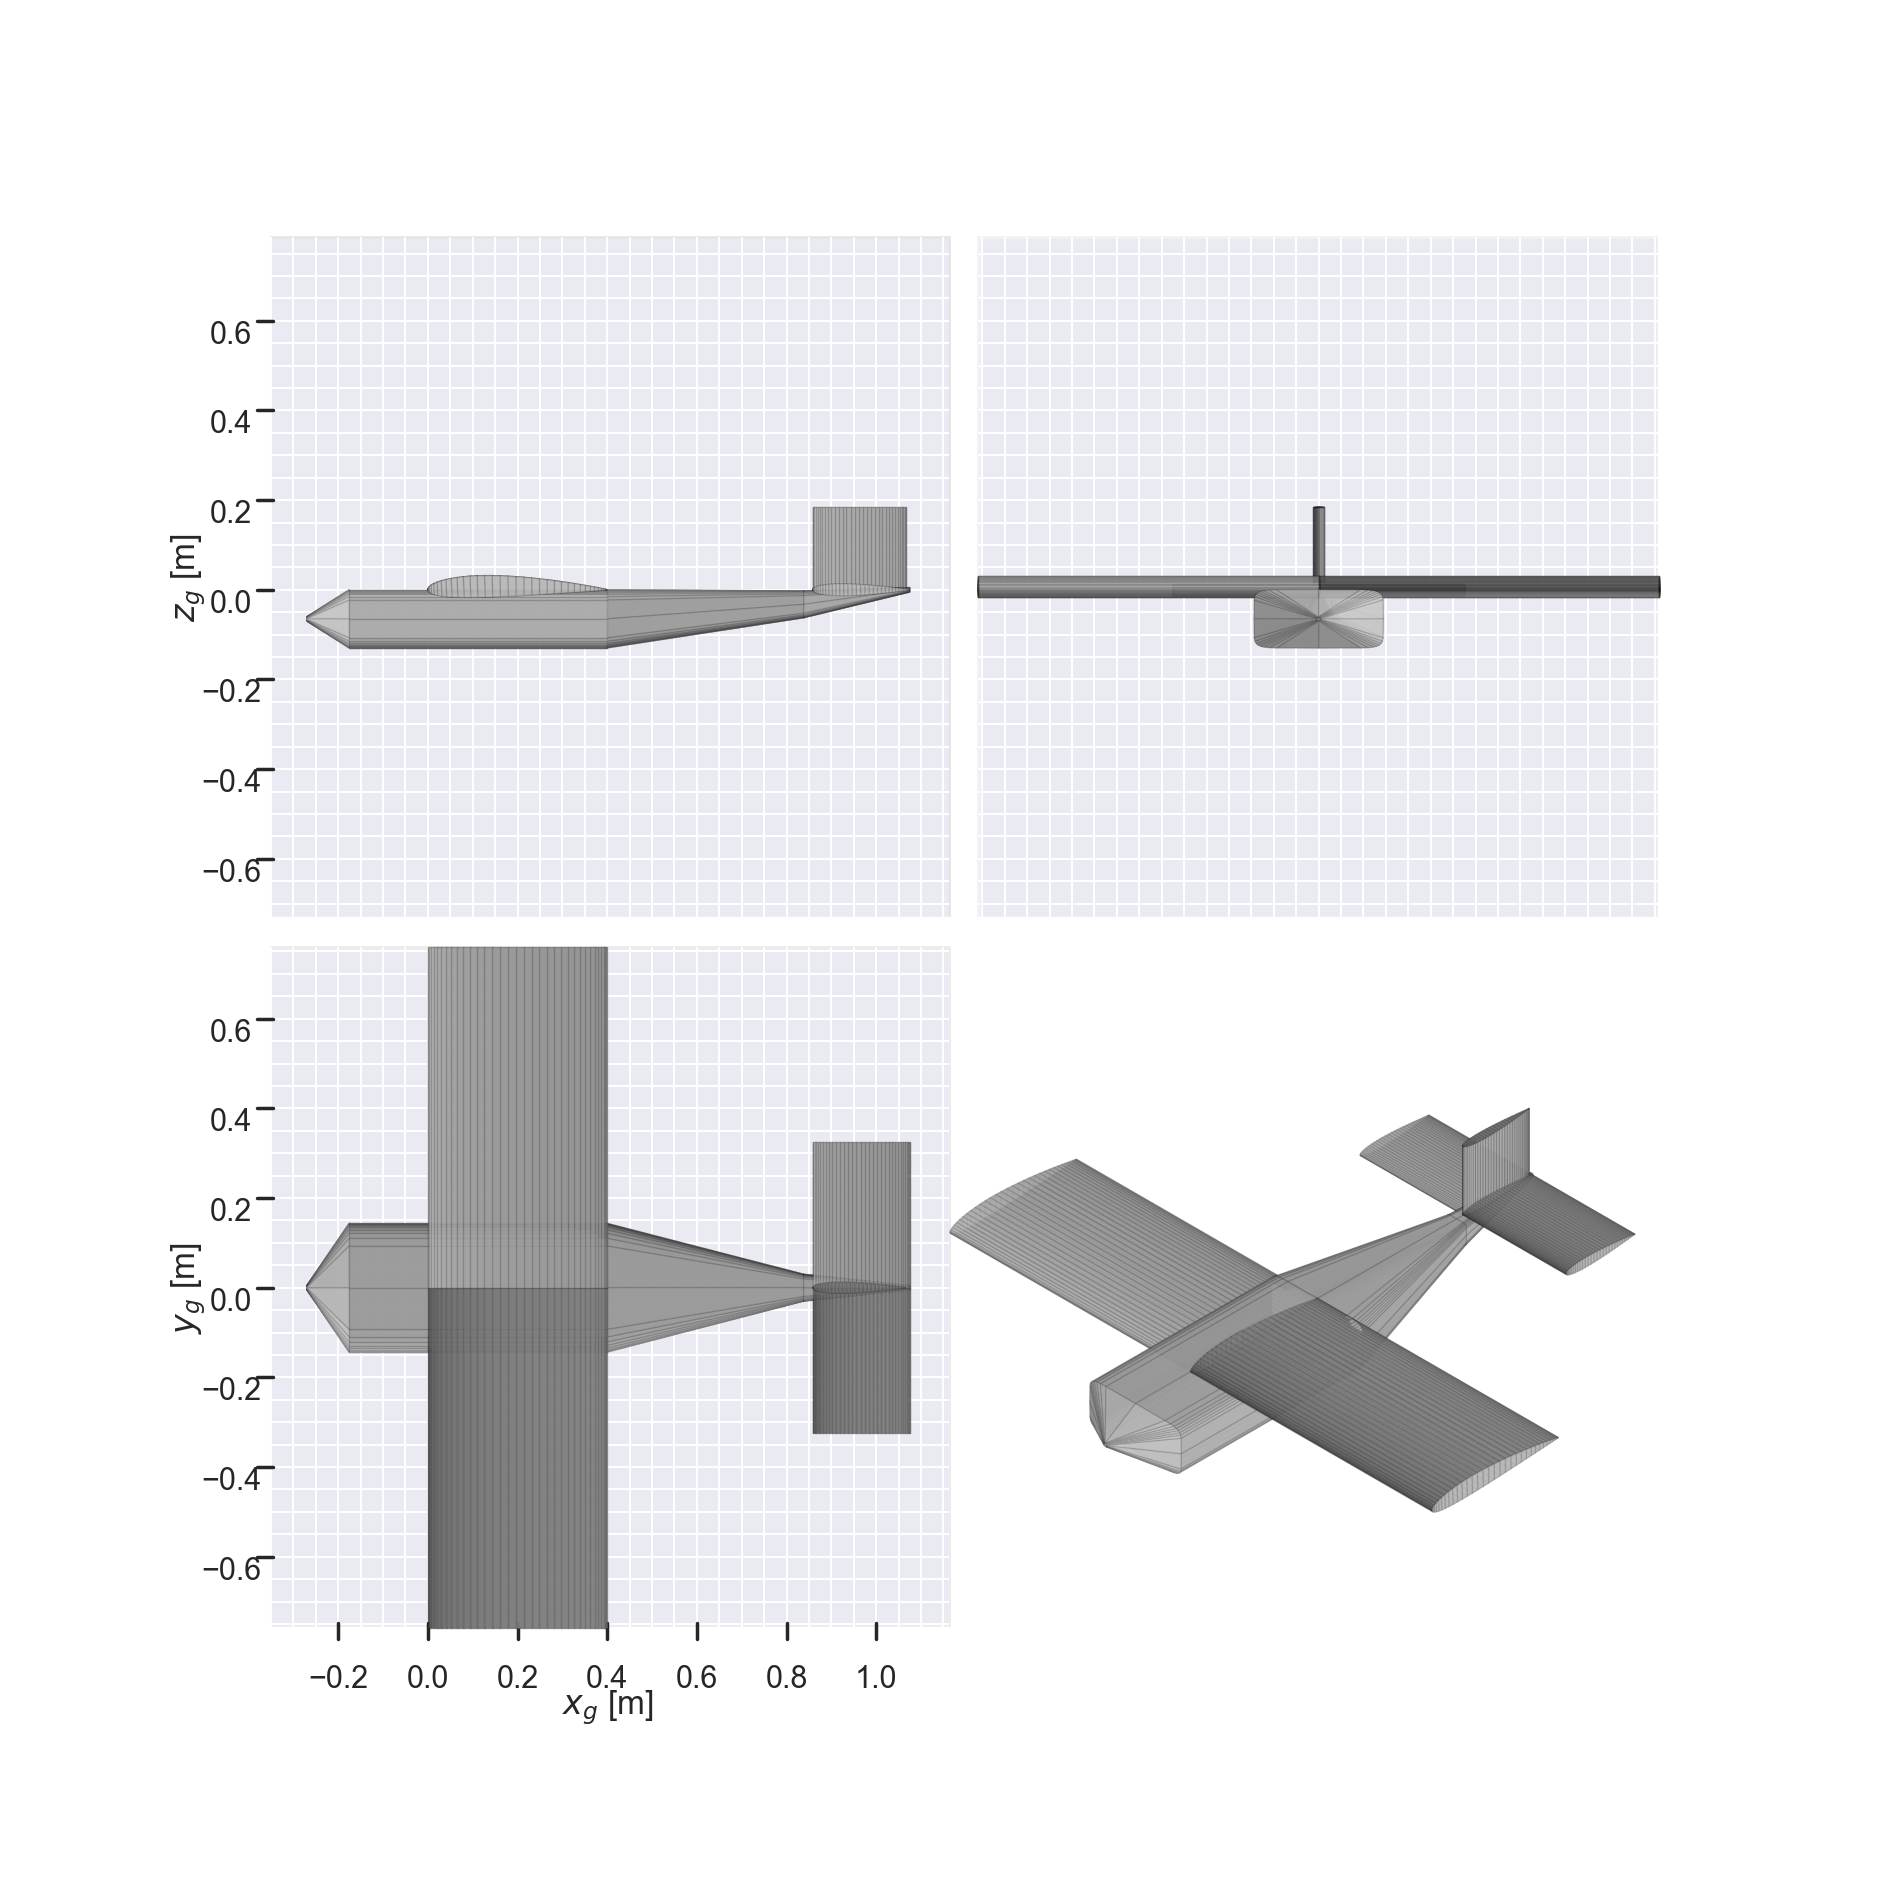
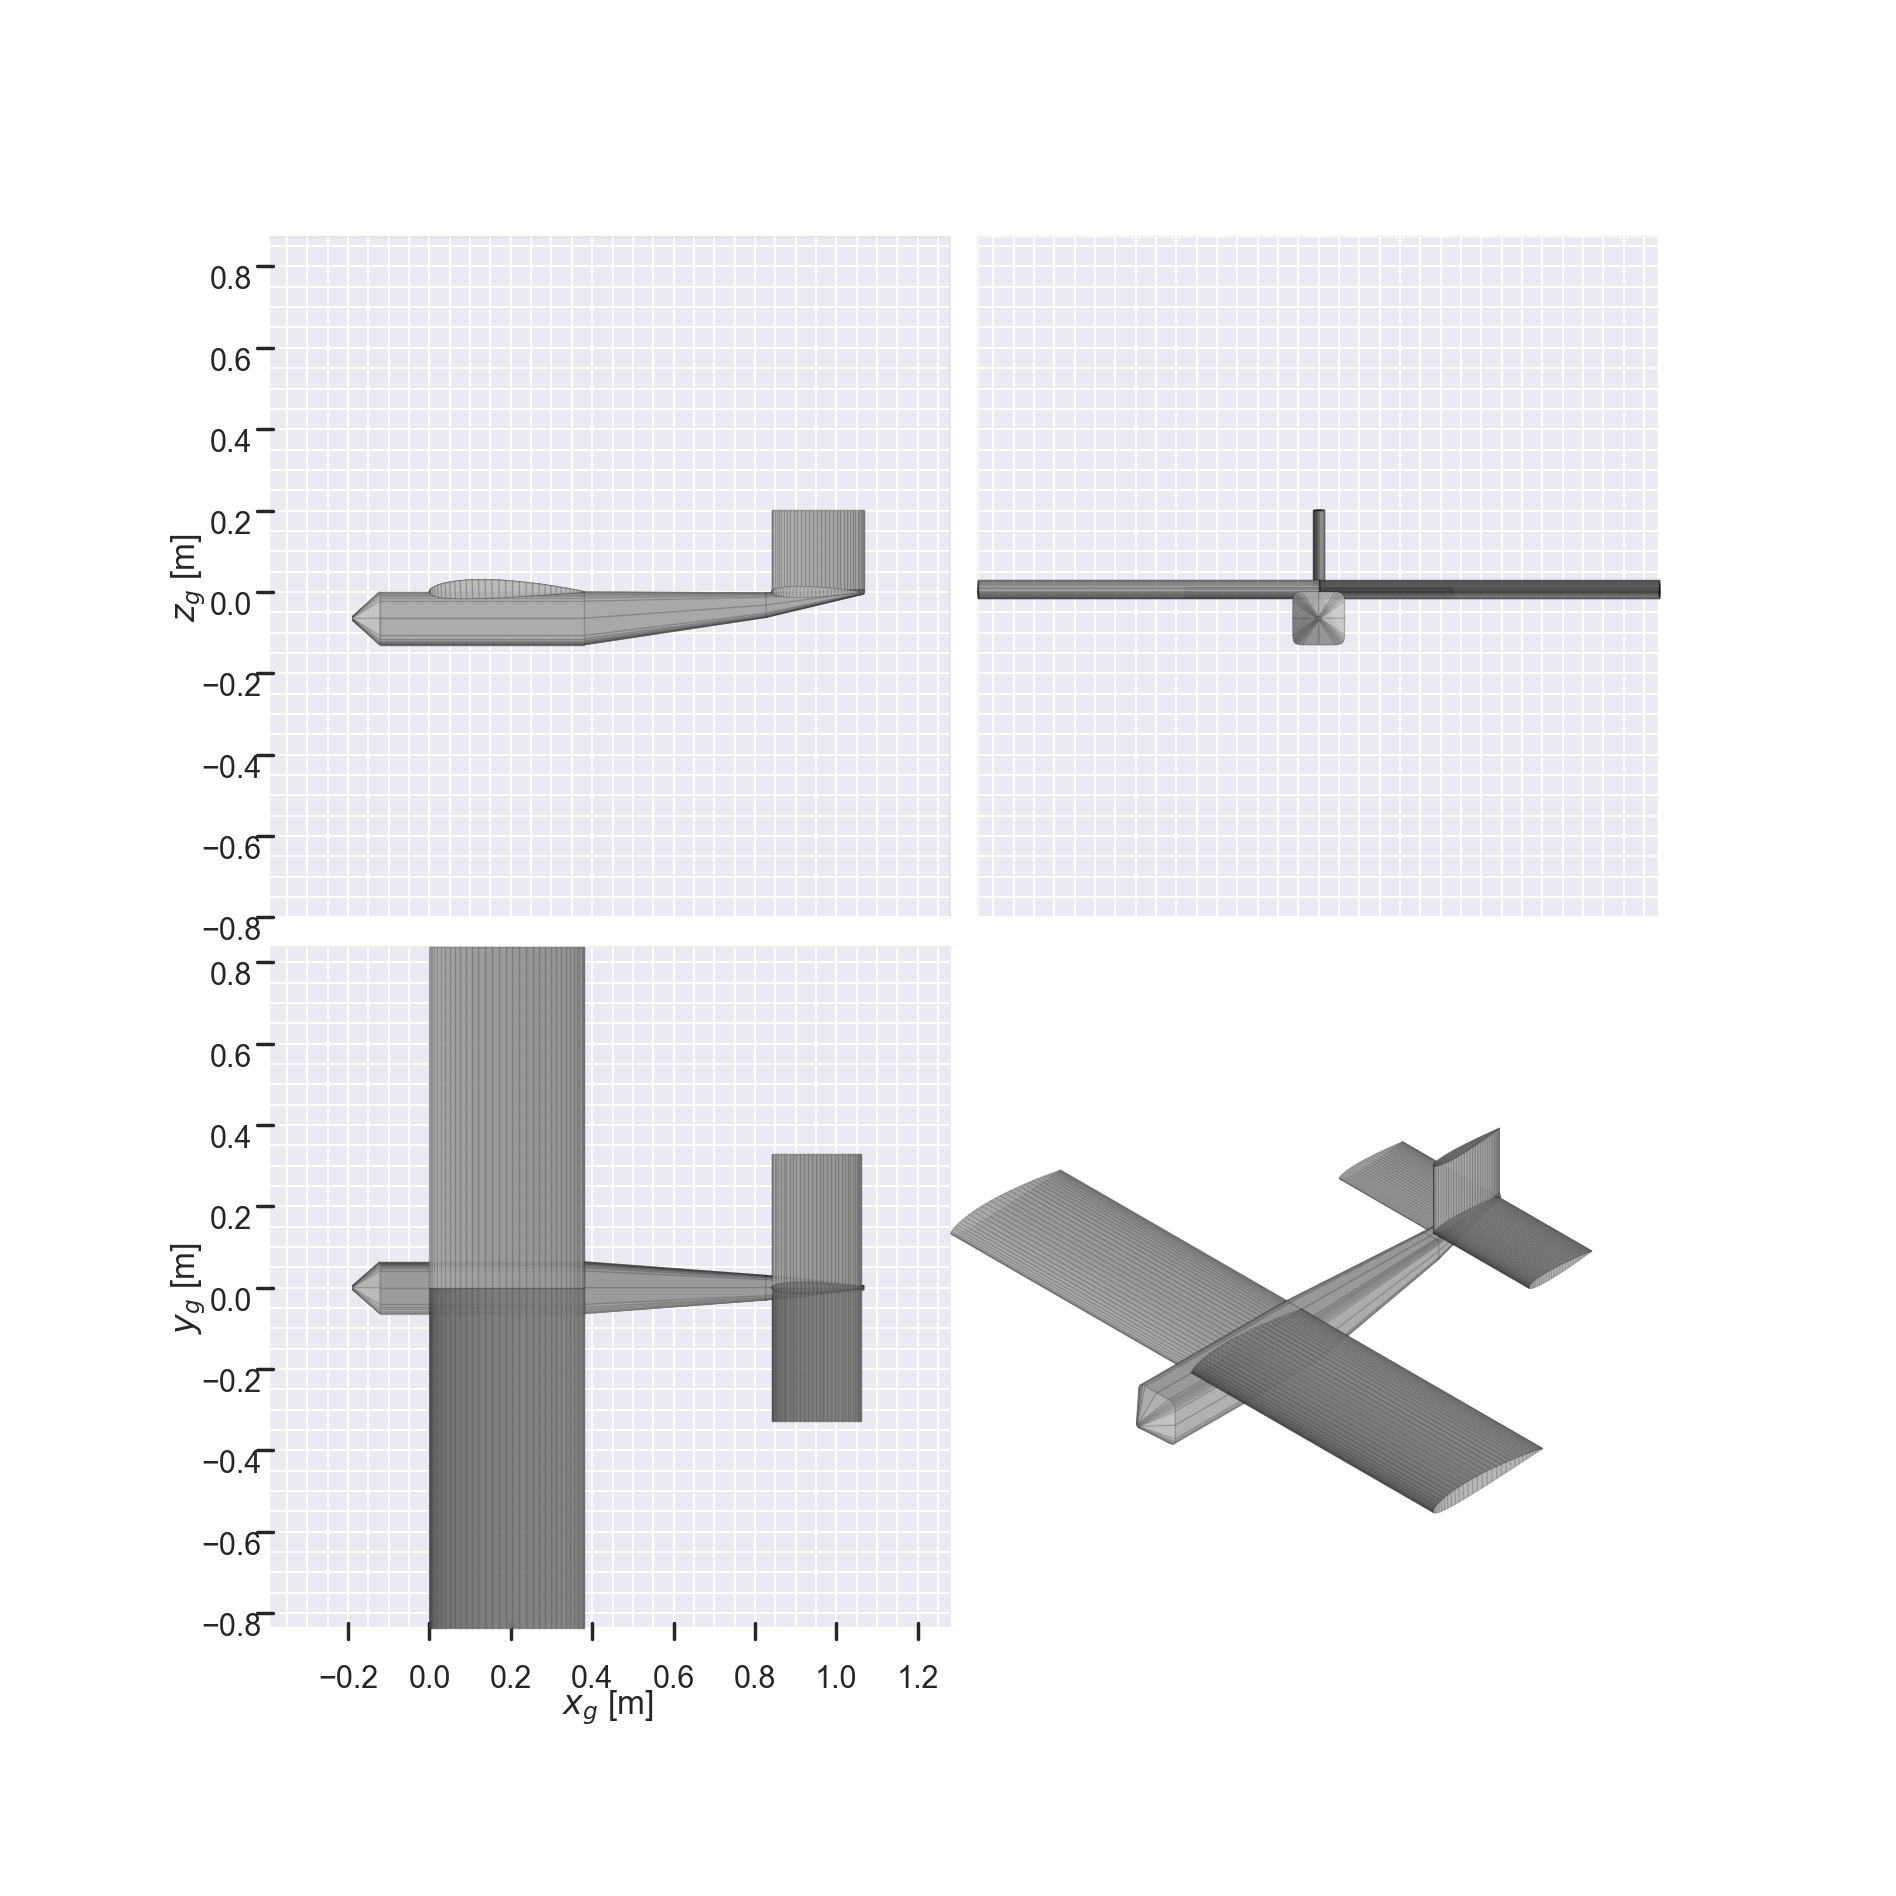
integrating cell count with opt_test

diff --git a/src/opt_test.py b/src/opt_test.py
@@ -20,6 +20,13 @@ from tqdm.auto import tqdm
 from src.main import main
 from src.mech.main_mech import evaluate_mechanical_module
 from src.opt.score import scoring_reference_values
+from src.opt.topline_opt import (
+    ToplineConfig,
+    _design_vector_from_optimizer,
+    _integrality_mask,
+    _optimizer_bounds,
+    _optimizer_variable_names,
+)
 from src.opt.view_results import (
     plot_final_population,
     plot_final_population_spread,
@@ -47,6 +54,11 @@ SUPPRESS_MODULE_OUTPUT = True
 REPORT_REJECTIONS = False
 REJECTION_DETAIL_CHARS = 220
 SAVE_BEST_DESIGN_VISUALIZATION = True
+BATTERY_CELL_COUNT_BOUNDS = (5, 8)
+OPTIMIZER_CONFIG = ToplineConfig(
+    optimize_battery_cell_count=True,
+    battery_cell_count_bounds=BATTERY_CELL_COUNT_BOUNDS,
+)
 EVALUATION_HISTORY: list[dict] = []
 PROGRESS_BAR = None
 BEST_SCORE = -math.inf
@@ -64,9 +76,29 @@ HISTORY_ARTIFACTS = (
 
 
 
+def optimizer_variable_names() -> list[str]:
+    return _optimizer_variable_names(OPTIMIZER_CONFIG)
+
+
+def optimizer_bounds() -> list[tuple[float, float]]:
+    return _optimizer_bounds(OPTIMIZER_CONFIG)
+
+
+def optimizer_integrality() -> np.ndarray:
+    return _integrality_mask(OPTIMIZER_CONFIG)
+
+
+def optimizer_array_from_design(design: DesignVector) -> np.ndarray:
+    return np.append(design.to_array(), float(design.battery_cell_count))
+
+
+def design_from_optimizer_array(x: np.ndarray) -> DesignVector:
+    return _design_vector_from_optimizer(x, OPTIMIZER_CONFIG)
+
+
 pd_constraint = NonlinearConstraint(
-    lambda x: x[DesignVector.opt_names().index("prop_pitch_in")]
-    / x[DesignVector.opt_names().index("prop_diameter_in")],
+    lambda x: x[optimizer_variable_names().index("prop_pitch_in")]
+    / x[optimizer_variable_names().index("prop_diameter_in")],
     0.4,   # minimum P/D
     0.8,   # maximum P/D
 )
@@ -96,7 +128,18 @@ def _write_run_summary(result, elapsed_seconds: float) -> Path:
         "workers": resolved_worker_count(),
         "maxiter": MAXITER,
         "popsize": POPSIZE,
-        "variables": len(DesignVector.bounds()),
+        "variables": len(optimizer_bounds()),
+        "variable_names": optimizer_variable_names(),
+        "bounds": {
+            name: bounds
+            for name, bounds in zip(optimizer_variable_names(), optimizer_bounds())
+        },
+        "integrality": {
+            name: bool(flag)
+            for name, flag in zip(
+                optimizer_variable_names(), optimizer_integrality()
+            )
+        },
         "population_size": de_population_size(),
         "maximum_expected_evaluations": expected_de_evaluations(),
         "evaluations_per_second": int(result.nfev) / elapsed_seconds,
@@ -176,7 +219,7 @@ def _history_row(
         "implied_penalty": np.nan,
         "message": message,
     }
-    for index, name in enumerate(DesignVector.opt_names()):
+    for index, name in enumerate(optimizer_variable_names()):
         row[name] = float(x[index])
     if breakdown is None:
         row.update({"ground": np.nan, "m1": np.nan, "m2": np.nan, "m3": np.nan})
@@ -250,7 +293,7 @@ def _ensure_prop_database_loaded() -> float:
 def _random_pd_feasible_vector(rng: np.random.Generator) -> np.ndarray:
     """Sample a random optimizer vector that satisfies the P/D constraint."""
 
-    bounds = DesignVector.bounds()
+    bounds = optimizer_bounds()
     values = np.array(
         [
             rng.uniform(lower, upper)
@@ -259,7 +302,11 @@ def _random_pd_feasible_vector(rng: np.random.Generator) -> np.ndarray:
         dtype=float,
     )
 
-    names = DesignVector.opt_names()
+    names = optimizer_variable_names()
+    for index, is_integer in enumerate(optimizer_integrality()):
+        if is_integer:
+            lower, upper = bounds[index]
+            values[index] = rng.integers(int(lower), int(upper) + 1)
     diameter_index = names.index("prop_diameter_in")
     pitch_index = names.index("prop_pitch_in")
     diameter = values[diameter_index]
@@ -303,7 +350,7 @@ def benchmark_fitness_runtime(
 
     database_load_seconds = _ensure_prop_database_loaded()
 
-    baseline = DesignVector().to_array()
+    baseline = optimizer_array_from_design(DesignVector())
     for _ in range(warmup_count):
         fitness(baseline, record=False)
 
@@ -420,7 +467,7 @@ def expected_de_evaluations() -> int:
 def de_population_size() -> int:
     """Differential-evolution population size for the current settings."""
 
-    return POPSIZE * len(DesignVector.bounds())
+    return POPSIZE * len(optimizer_bounds())
 
 
 def resolved_worker_count() -> int:
@@ -467,7 +514,7 @@ def fitness(x: np.ndarray, *, record: bool = True) -> float:
     record = record and should_record_evaluations()
     evaluation = _next_evaluation_number()
     try:
-        design_vector = DesignVector.from_array(x)
+        design_vector = design_from_optimizer_array(x)
         if PROP_DATABASE is None:
             _ensure_prop_database_loaded()
         with _module_output_context():
@@ -605,7 +652,7 @@ def _differential_evolution_kwargs() -> dict:
 
     return {
         "func": fitness,
-        "bounds": DesignVector.bounds(),
+        "bounds": optimizer_bounds(),
         "constraints": (pd_constraint,),
         "maxiter": MAXITER,
         "popsize": POPSIZE,
@@ -615,6 +662,7 @@ def _differential_evolution_kwargs() -> dict:
         "tol": DE_TOL,
         "atol": DE_ATOL,
         "disp": False,
+        "integrality": optimizer_integrality(),
     }
 
 
@@ -707,14 +755,14 @@ def print_final_population_spread(result) -> None:
     if not hasattr(result, "population"):
         return
     population = np.asarray(result.population, dtype=float)
-    bounds = np.asarray(DesignVector.bounds(), dtype=float)
+    bounds = np.asarray(optimizer_bounds(), dtype=float)
     spans = bounds[:, 1] - bounds[:, 0]
     normalized_std = np.std(population, axis=0) / spans
 
     print("\nFinal population spread:")
     print("  variable | std / range")
     for name, spread in sorted(
-        zip(DesignVector.opt_names(), normalized_std),
+        zip(optimizer_variable_names(), normalized_std),
         key=lambda item: item[1],
         reverse=True,
     ):
@@ -729,17 +777,20 @@ def main_opt_test() -> None:
     PROP_DATABASE = _load_prop_database()
 
     print("Optimization variables:")
-    for name, bounds in zip(DesignVector.opt_names(), DesignVector.bounds()):
+    for name, bounds in zip(optimizer_variable_names(), optimizer_bounds()):
         print(f"  {name}: {bounds}")
 
     baseline = DesignVector()
     print("\nBaseline design:")
     for name, value in asdict(baseline).items():
-        if name in DesignVector.opt_names():
+        if name in optimizer_variable_names():
             print(f"  {name}: {value}")
 
     print("\nBaseline score check:")
-    baseline_objective = fitness(baseline.to_array(), record=False)
+    baseline_objective = fitness(
+        optimizer_array_from_design(baseline),
+        record=False,
+    )
     print(f"  objective: {baseline_objective}")
     print(f"  score: {-baseline_objective}")
 
@@ -755,8 +806,8 @@ def main_opt_test() -> None:
     )
     print(f"Termination: {result.message}")
 
-    best_design = DesignVector.from_array(result.x)
-    print_best_result(result, DesignVector.opt_names())
+    best_design = design_from_optimizer_array(result.x)
+    print_best_result(result, optimizer_variable_names())
     if EVALUATION_HISTORY:
         print_generation_summary()
     else:
@@ -767,7 +818,7 @@ def main_opt_test() -> None:
         )
     print_final_population_spread(result)
     print("\nBest design vector:")
-    print(best_design.disp_vars())
+    print(best_design.disp_vars(optimization_names=optimizer_variable_names()))
     visualization_paths = None
     if SAVE_BEST_DESIGN_VISUALIZATION:
         try:
@@ -805,8 +856,8 @@ def main_opt_test() -> None:
     )
     plot_final_population_spread(
         result,
-        DesignVector.opt_names(),
-        DesignVector.bounds(),
+        optimizer_variable_names(),
+        optimizer_bounds(),
         save_path=str(population_spread_path),
         show=False,
     )

diff --git a/src/vectors.py b/src/vectors.py
@@ -165,9 +165,18 @@ class DesignVector:
         """Returns the optimizer variable names in array order."""
         return [name for name, _ in OPT_VARS]
 
-    def disp_vars(self) -> str:
+    def disp_vars(self, optimization_names: list[str] | None = None) -> str:
         """Returns a formatted display of optimization, fixed, and derived variables."""
-        opt_names = set(self.opt_names())
+        ordered_opt_names = (
+            self.opt_names() if optimization_names is None else optimization_names
+        )
+        unknown_names = set(ordered_opt_names) - set(self.__dataclass_fields__)
+        if unknown_names:
+            raise ValueError(
+                "Unknown optimization variable names: "
+                + ", ".join(sorted(unknown_names))
+            )
+        opt_names = set(ordered_opt_names)
         derived_names = [
             name for name, dataclass_field in self.__dataclass_fields__.items()
             if not dataclass_field.init
@@ -178,7 +187,7 @@ class DesignVector:
         ]
 
         sections = [
-            ("--- Optimization Variables ---", self.opt_names()),
+            ("--- Optimization Variables ---", ordered_opt_names),
             ("--- Fixed Variables ---", fixed_names),
             ("--- Derived Variables ---", derived_names),
         ]
